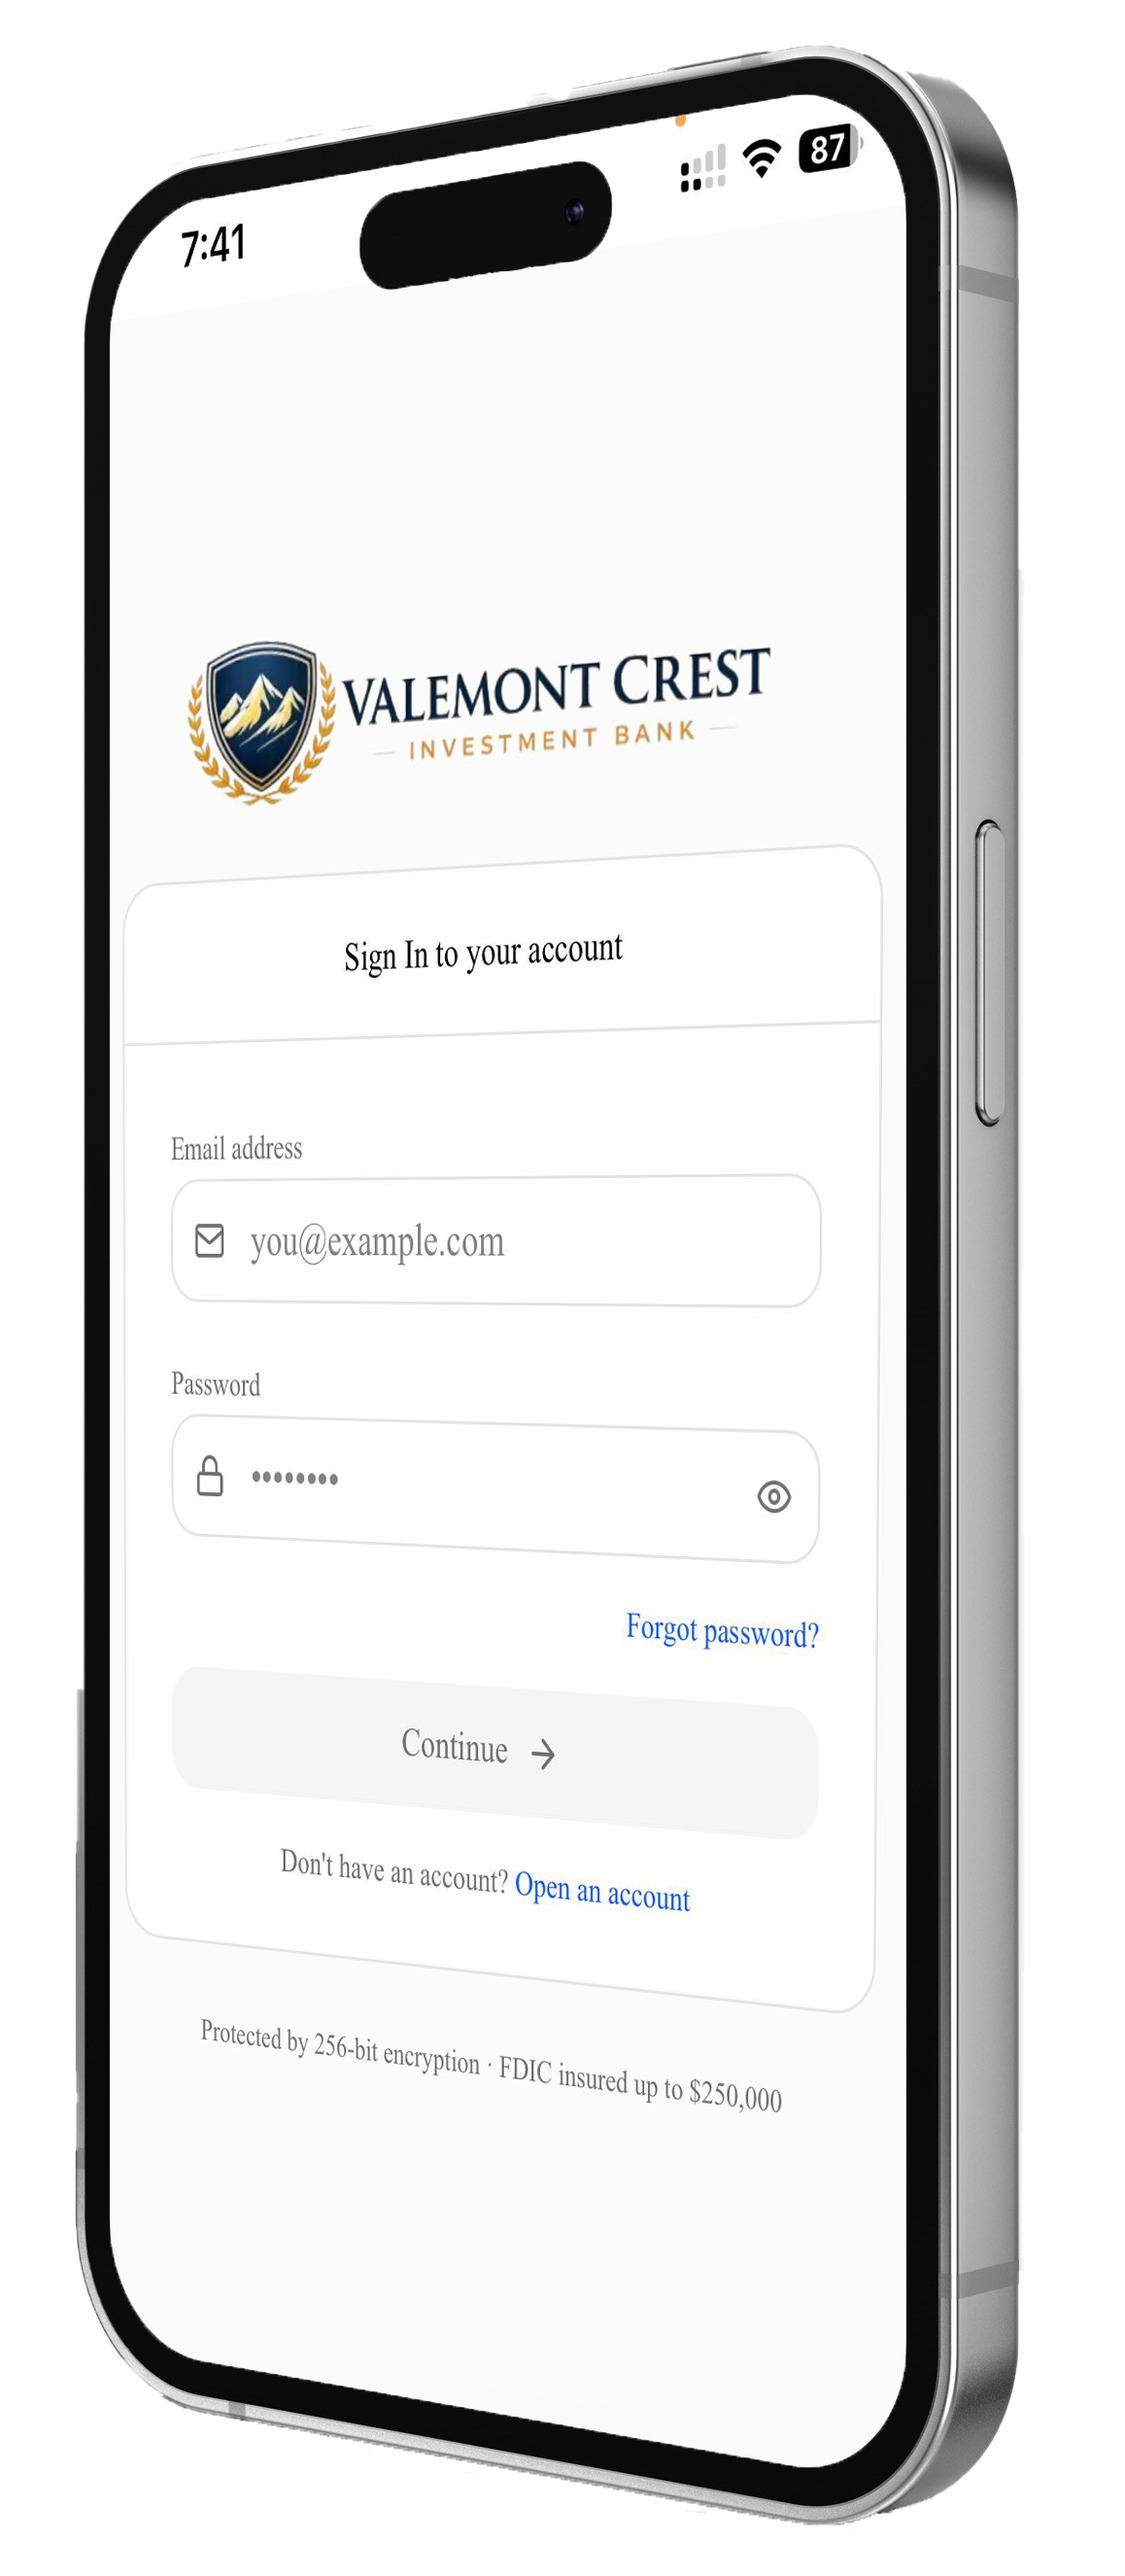
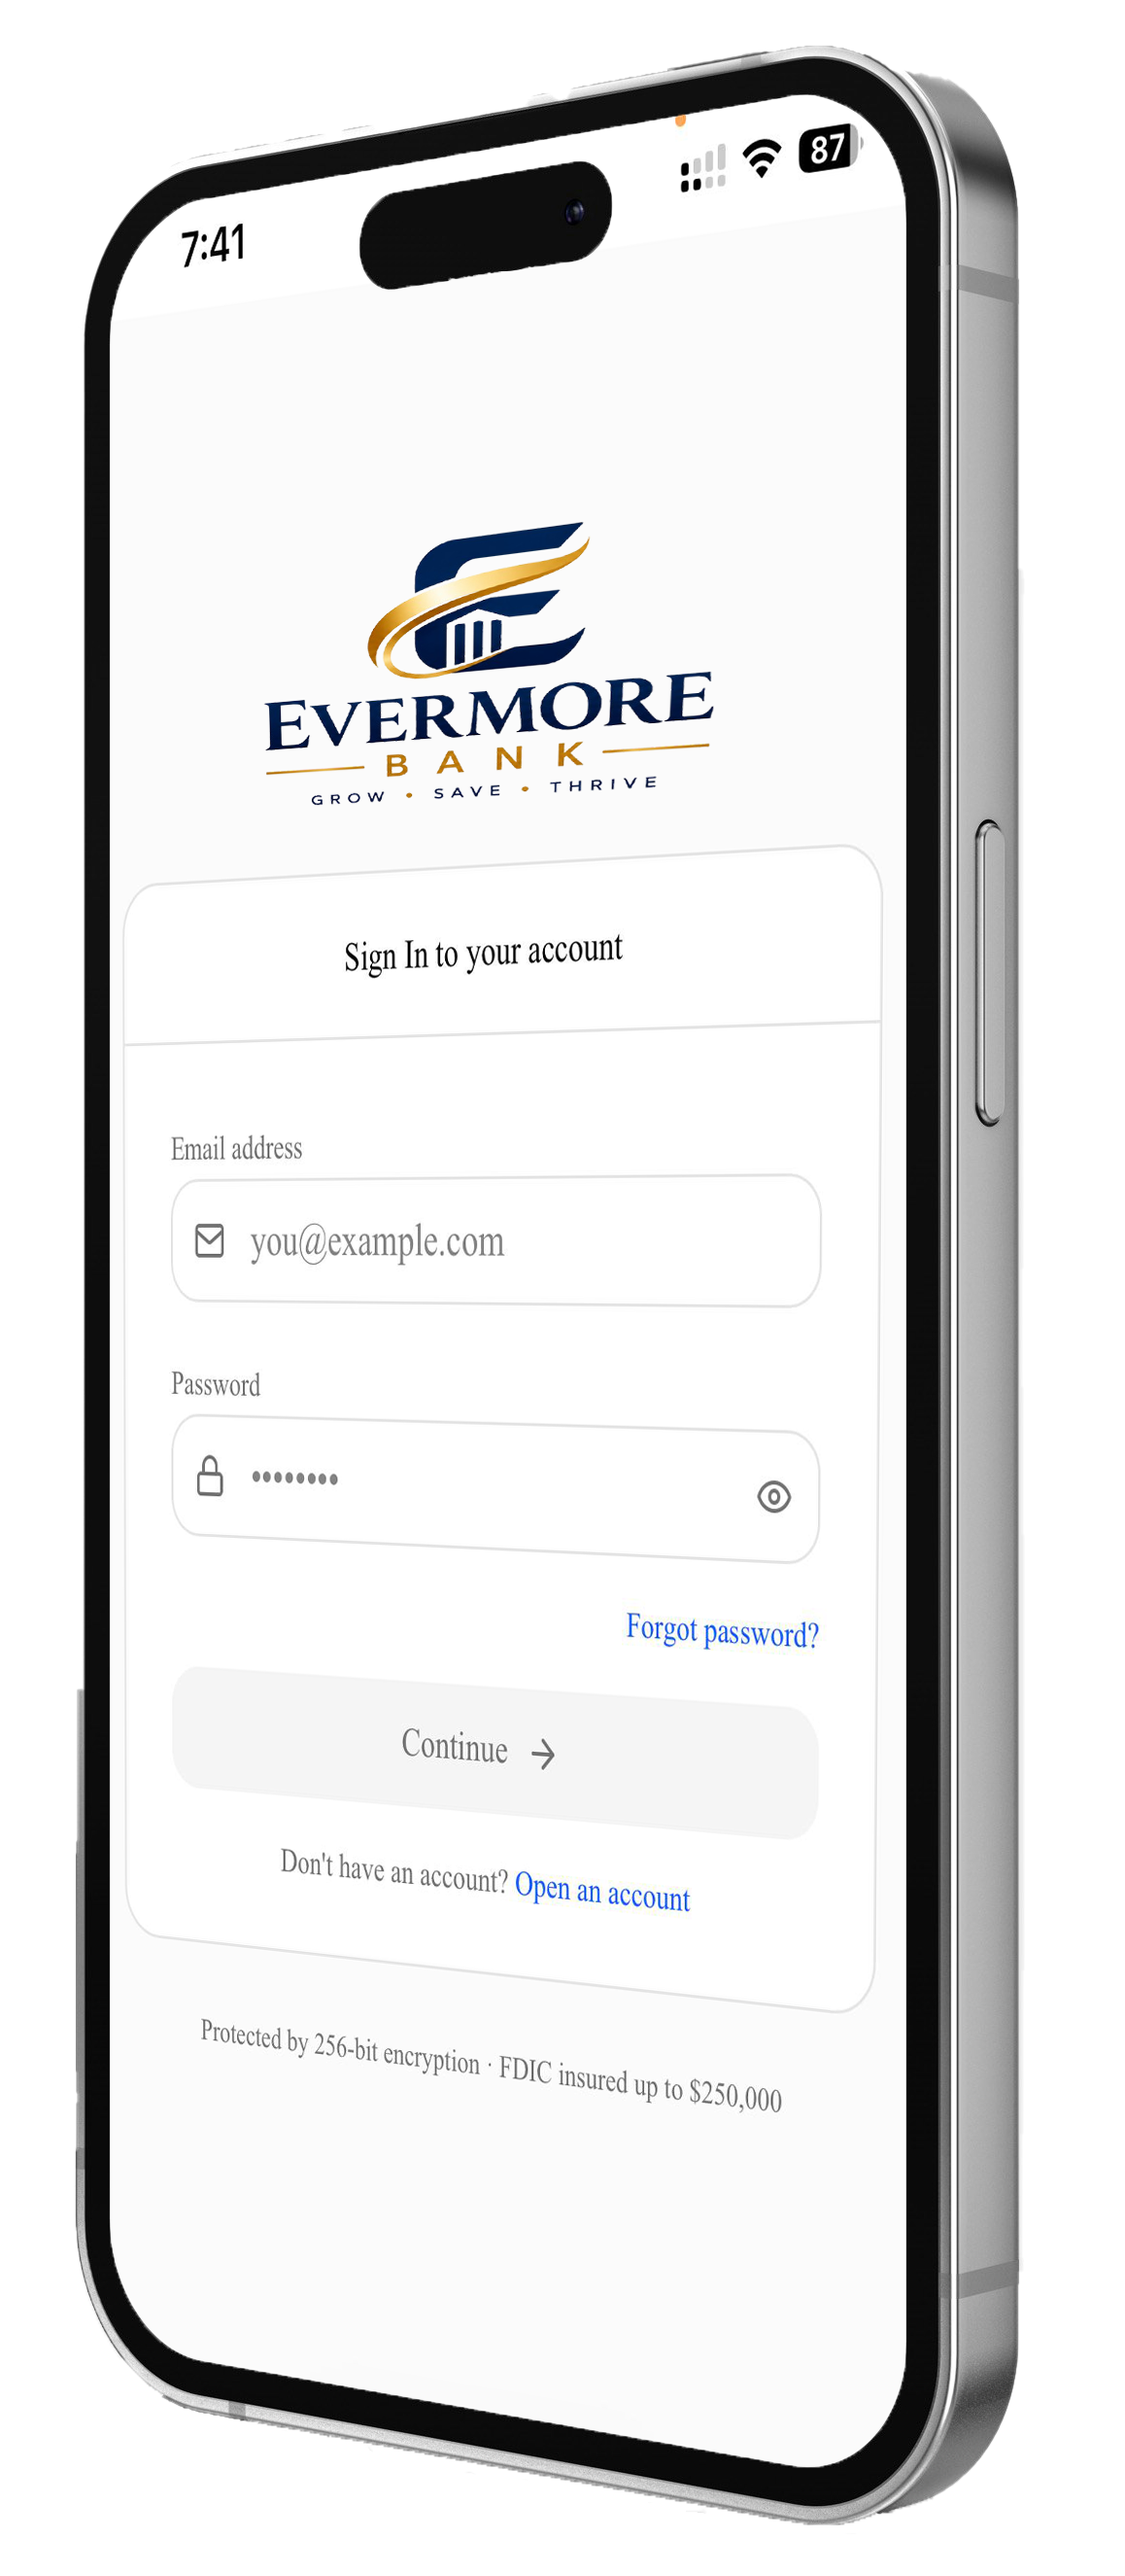
eeeeeeeeeee

Changed region(s): [[0.1554, 0.1857, 0.6839, 0.3094]]

diff --git a/app/page.tsx b/app/page.tsx
@@ -417,7 +417,7 @@ function AppShowcase() {
                 */}
                 <div className="relative w-72 h-140 sm:w-80 sm:h-155">
                   <Image
-                    src="/images/mockup1.jpg"
+                    src="/images/mockup1.png"
                     alt="Hand holding an iPhone displaying the SecureBank mobile banking dashboard with account balances and recent transactions"
                     fill
                     className="object-contain drop-shadow-2xl"

diff --git a/components/marketing/Navbar.tsx b/components/marketing/Navbar.tsx
@@ -148,7 +148,7 @@ export default function Navbar() {
 
             {/* ── Logo ── */}
             <Image
-                        src="/images/logo.png"
+                        src="/images/logoo1.png"
                         alt=" logo"
                         width={156}
                         height={56}
